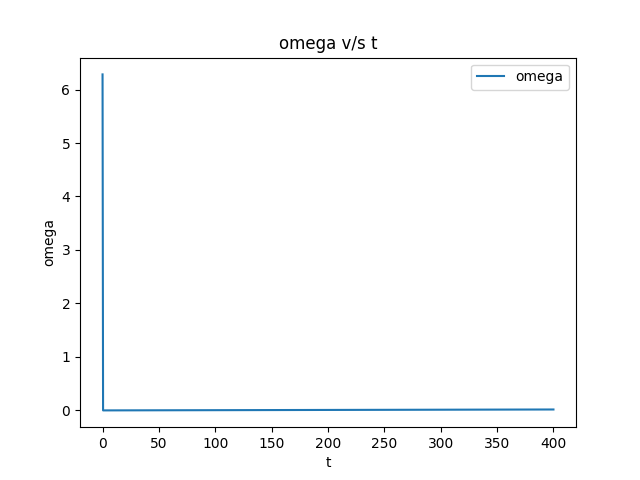
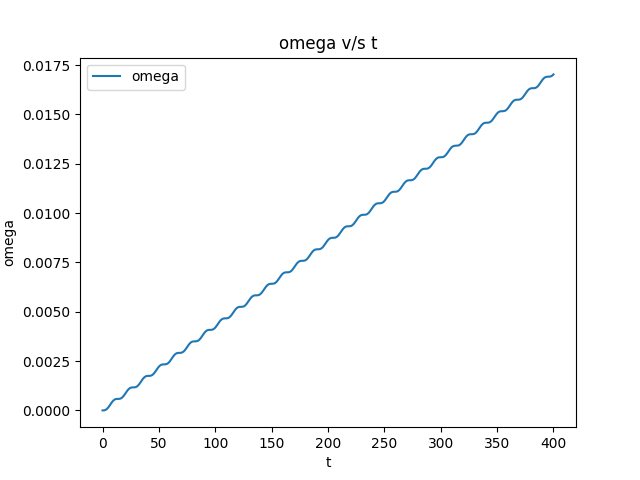
Added a common rk4 method

diff --git a/python_codes/tether.py b/python_codes/tether.py
@@ -3,36 +3,66 @@
 
 import numpy as np
 import igrf12
+import rk4_step as rk
 
 
 class Tether(object):
     """Class to handle tether dynamics."""
 
-    def __init__(self, tether_len=0, tether_res=0):
-        """Initialize class."""
+    def __init__(self, tether_len=0, tether_con=0, em_current=0, t_cross=0):
+        """Initialize class.
+
+        Inputs:
+        tether_len - length of tether_len
+        tether_con - conductivity of tether
+        em_current - current in emitter
+        t_cross - array containing cross section dimensions of tether
+            If array has 1 elem, it is assumed that tether is a cyindrical
+            tether.
+        _ang[0] - Angle of the tether from verticle
+        _angle[1] = angle of tether from body x-z frame
+        """
         self._len = tether_len
-        self._res = tether_res
-        self._ang = 0
+        self._sigma = tether_con
+        self._ang = [0, 0]
+        self._curr_c = em_current
+        self._dim = t_cross
 
     def setlen(self, length):
         """Set length of tether."""
         self._len = length
 
-    def setres(self, resistance):
+    def setsigma(self, conductivity):
         """Set resistance of tether."""
-        self._res = resistance
+        self._sigma = conductivity
+
+    def setdim(self, t_cross):
+        """Set the cross section dimensions of tether."""
+        self._dim = t_cross
+
+    def setemcurr(self, cath_curr):
+        """Set the current in the emitter."""
+        self._curr_c = cath_curr
 
     def getlen(self):
         """Return tether length."""
         return self._len
 
-    def getres(self):
+    def getsigma(self):
         """Return resistance of tether."""
-        return self._res
+        return self._sigma
 
     def getangle(self):
         """Return the angle of tether."""
         return self._ang
+
+    def getemcurr(self):
+        """Return current in cathode."""
+        return self._curr_c
+
+    def getdim(self):
+        """Return dimensions of tether."""
+        return self._dim
 
     def getmag(self, sat):
         """Return magnetic field at satellite position."""
@@ -41,13 +71,59 @@ class Tether(object):
         time = sat.gettime()
         return getB_sph(lat, lon, rad, time)
 
-    def getcurr(self, sat):
-        """Return current."""
-        B_r, B_t, B_p = self.getB(sat)
-        v_r, v_t, v_p = sat.getvel_sph()
-        r = sat.getpos_sph()[0]
-        v_p = v_p - 2*np.pi/86164.09164*r  # v_p must be in ECEF coordinates
-        return (v_t*B_p - v_p*B_t)*self._len/self._res
+    def getind_e(self, sat):
+        """Return induced electric across tether.
+
+        Positive in upward direction.
+        """
+        vel = sat.getvel_sph()
+        v_abs = np.linalg.norm(vel)
+        pos = sat.getpos_sph()
+        vel[2] = vel[2] - 2*np.pi/86164.09164*pos[0]*np.sin(pos[1])
+        l_cap_vel = [np.sin(self._ang[0])*np.cos(self._ang[1]),
+                     np.sin(self._ang[0])*np.sin(self._ang[1]),
+                     np.cos(self._ang[0])]
+        vel_to_rtp = [[vel[0]/v_abs, vel[1]/v_abs, vel[2]/v_abs],
+                      [0, -1*vel[2]/(vel[1]**2 + vel[2]**2)**0.5,
+                       vel[1]/(vel[1]**2 + vel[2]**2)**0.5],
+                      [(vel[1]**2 + vel[2]**2)**0.5/v_abs,
+                       -1*(vel[0]*vel[1])/(v_abs*(vel[1]**2 + vel[2]**2)**0.5),
+                       -1*(vel[0]*vel[2])/(v_abs*(vel[1]**2 + vel[2]**2)**0.5)]
+                     ]
+        l_cap_rtp = np.dot(np.transpose(vel_to_rtp), l_cap_vel)
+        mag_vec = self.getmag(sat)
+        return np.dot(np.cross(vel, mag_vec), l_cap_rtp)
+
+    def getconst(self, sat):
+        """Return constant parameters."""
+        n_inf = 10**11
+        e_ind = self.getind_e(sat)
+        if len(self._dim) == 1:
+            area = np.pi*self._dim[0]**2/4.0
+        elif len(self._dim) == 2:
+            area = self._dim[0]*self._dim[1]
+        len0 = (9*np.pi*9.109E-31*(3.538E7)**2*e_ind*area/(128*(1.602E-19)**2 *
+                                                           n_inf**2))
+        curr0 = self._sigma*e_ind*area
+        volt0 = e_ind*len0
+        return len0, curr0, volt0
+
+
+    def get_iv(self, sat):
+        """Get the voltage and current in the tether.
+
+        Assumed the ion currentis negligible.
+        Assumed that lambda_c is 0
+        """
+        lambda_c = 0
+        len0, curr0, volt0 = self.getconst()
+        gamma_c = self._curr_c/curr0
+        lambda_a = (lambda_c**1.5 - gamma_c**2 + 2*gamma_c)**(2/3)
+        dlen = 0.1
+        deps = dlen/len0
+        nlen = (int)(self._len/dlen)
+        lambda_arr = np.zeros(nlen)
+        gamma_arr = np.zeros(nlen)
 
     def accln(self, sat):
         """Get acceleration due to tether."""
@@ -57,6 +133,14 @@ class Tether(object):
         a_t = -1*self.getcurr(sat)*self._len*B_p/mass
         a_p = self.getcurr(sat)*self._len*B_t/mass
         return a_r, a_t, a_p
+
+
+def diff_iv(state):
+    """Return differential of gamma ad lambda.
+
+    state - [gamma, lambda]
+    """
+    return np.array([0.75*state[1]**0.5, state[0] - 1])
 
 
 def getB_NED(lat, longit, r, t):  # time in decimal year

diff --git a/python_codes/sat_orbit.py b/python_codes/sat_orbit.py
@@ -5,6 +5,7 @@ import orbit_state as orb
 import tether as teth
 import forces
 import matplotlib.pyplot as plt
+import rk4_step as rk
 
 G = 6.67408e-11
 M_EARTH = 5.972e24
@@ -17,7 +18,7 @@ class Satellite(orb.OrbParam3D):
     unless specified
     """
 
-    def __init__(self, satmass, state0, form='sph', time0=0,
+    def __init__(self, satmass=0, state0=np.zeros(6), form='sph', time0=0,
                  bool_tether=0, tether=teth.Tether()):
         """Initialize class.
 
@@ -64,8 +65,9 @@ class Satellite(orb.OrbParam3D):
 
     def geten(self):
         """Return the energy of the satellite."""
+        lat = self.getlatlong()[0]
         return (0.5*self._sm*(self._vr**2 + self._vt**2 + self._vp**2) -
-                G*self._mm*self._sm/self._r)
+                forces.wgs84_pot(self._r, lat)*self._sm/self._r)
 
     def get_a(self):
         """Return the semi major axis of the satellite."""
@@ -122,6 +124,30 @@ class Satellite(orb.OrbParam3D):
         true_th = self.true_an()
         return h_mom, inc, cap_omega, ecc, small_omega, true_th
 
+    def rk4_step_sat(self, dtime):
+        """Return rk4 method."""
+        states = self.getstate()
+        time = self.gettime()
+        states = np.append(states.copy(), time)
+        states_new = rk.rk4_step(diff_func, states, dtime)
+        self.setstates(states_new[:-1])
+        self.settime(states_new[-1])
+
+
+def diff_func(state):
+    """Return the differential at the given state."""
+    var = Satellite()
+    var.setstates(state[:-1])
+    var.settime(state[-1])
+    dstate = np.zeros_like(state)
+    dstate[-1] = 1.0
+    dstate[0] = state[1]
+    dstate[2] = state[3]/(state[0])
+    dstate[4] = state[5]/(state[0]*np.sin(state[2]))
+    acc = tot_acc(var)
+    dstate[1], dstate[3], dstate[5] = var.getvdot(acc[0], acc[1], acc[2])
+    return dstate
+
 
 def twobody_acc(sat):
     """Get the two body acceleration on the satellite."""
@@ -153,7 +179,7 @@ def getorbit(sat, tfinal, tstep, trec):
     s_major_arr = np.zeros(n_tvals)
     count = 0
     for i in range(ntimes):
-        sat.rk4_step(tstep, tot_acc)
+        sat.rk4_step_sat(tstep)
         if i % (trec/tstep) == 0:
             state_arr[:, count] = sat.getstate()
             orbelem_arr[:, count] = sat.orb_elem()

diff --git a/python_codes/orbit_state.py b/python_codes/orbit_state.py
@@ -86,10 +86,10 @@ class OrbParam3D(object):
         self._vr = np.dot(posxyz, vel)/np.linalg.norm(posxyz)
         self._vt = (self._vr*posxyz[2] - vel[2]*self._r)/(self._r**2 -
                                                           posxyz[2]**2)**0.5
-        self._vp = ((posxyz[0]*vel[1] - posxyz[1]*vel[2]) /
+        self._vp = ((posxyz[0]*vel[1] - posxyz[1]*vel[0]) /
                     np.linalg.norm(posxyz[0:2]))
 
-    def __settime(self, time):
+    def settime(self, time):
         """Set time.
 
         Private
@@ -177,15 +177,15 @@ class OrbParam3D(object):
             if i < 2:
                 state_n = state0 + k[:, i]/2.0
                 self.setstates(state_n)
-                self.__settime(time0 + tstep/2.0)
+                self.settime(time0 + tstep/2.0)
             else:
                 state_n = state0 + k[:, i]
                 self.setstates(state_n)
-                self.__settime(time0 + tstep)
+                self.settime(time0 + tstep)
         state_n = state0 + (k[:, 0] + 2*k[:, 1] + 2*k[:, 2] + k[:, 3])/6.0
         state_n[4] = state[4] - np.floor(state[4]/(2*np.pi))*2*np.pi
         self.setstates(state_n)
-        self.__settime(time0 + tstep)
+        self.settime(time0 + tstep)
 
     def sp_ang_mom(self):
         """Return the specific angular momentum of satellite."""

diff --git a/python_codes/rk4_step.py b/python_codes/rk4_step.py
@@ -1,0 +1,18 @@
+"""Module containing rk4 function."""
+
+
+def inc_state(state, dstate):
+    """Increment the given state by dstate."""
+    return state + dstate
+
+
+def rk4_step(diff_func, state0, dstep, inc_func=inc_state):
+    """Return the value of state for the next step."""
+    k1val = diff_func(state0)
+    k2val = diff_func(inc_func(state0, k1val*dstep/2.0))
+    k3val = diff_func(inc_func(state0, k2val*dstep/2.0))
+    k4val = diff_func(inc_func(state0, k3val*dstep))
+    state_new = inc_state(state0, (k1val + 2*k2val + 2*k3val + k4val)/6.0 *
+                          dstep)
+    print k1val, k2val, k3val, k4val
+    return state_new

diff --git a/python_codes/forces.py b/python_codes/forces.py
@@ -81,6 +81,13 @@ def earthgrav(rad, lat, lon):
     return grav
 
 
+def wgs84_pot(rad, lat):
+    """Return potential of wgs84 model."""
+    j2val = 1.081874e-3
+    aval = 6378137
+    muval = 3.986004418e14
+    return -1*muval/rad*(1 - j2val*aval**2/(2*rad**3)*(3*np.sin(lat)**2 - 1))
+
 def gravity_wgs84(rad, lat):
     """Return gravity acc to wgs84 model."""
     j2val = 1.081874e-3
